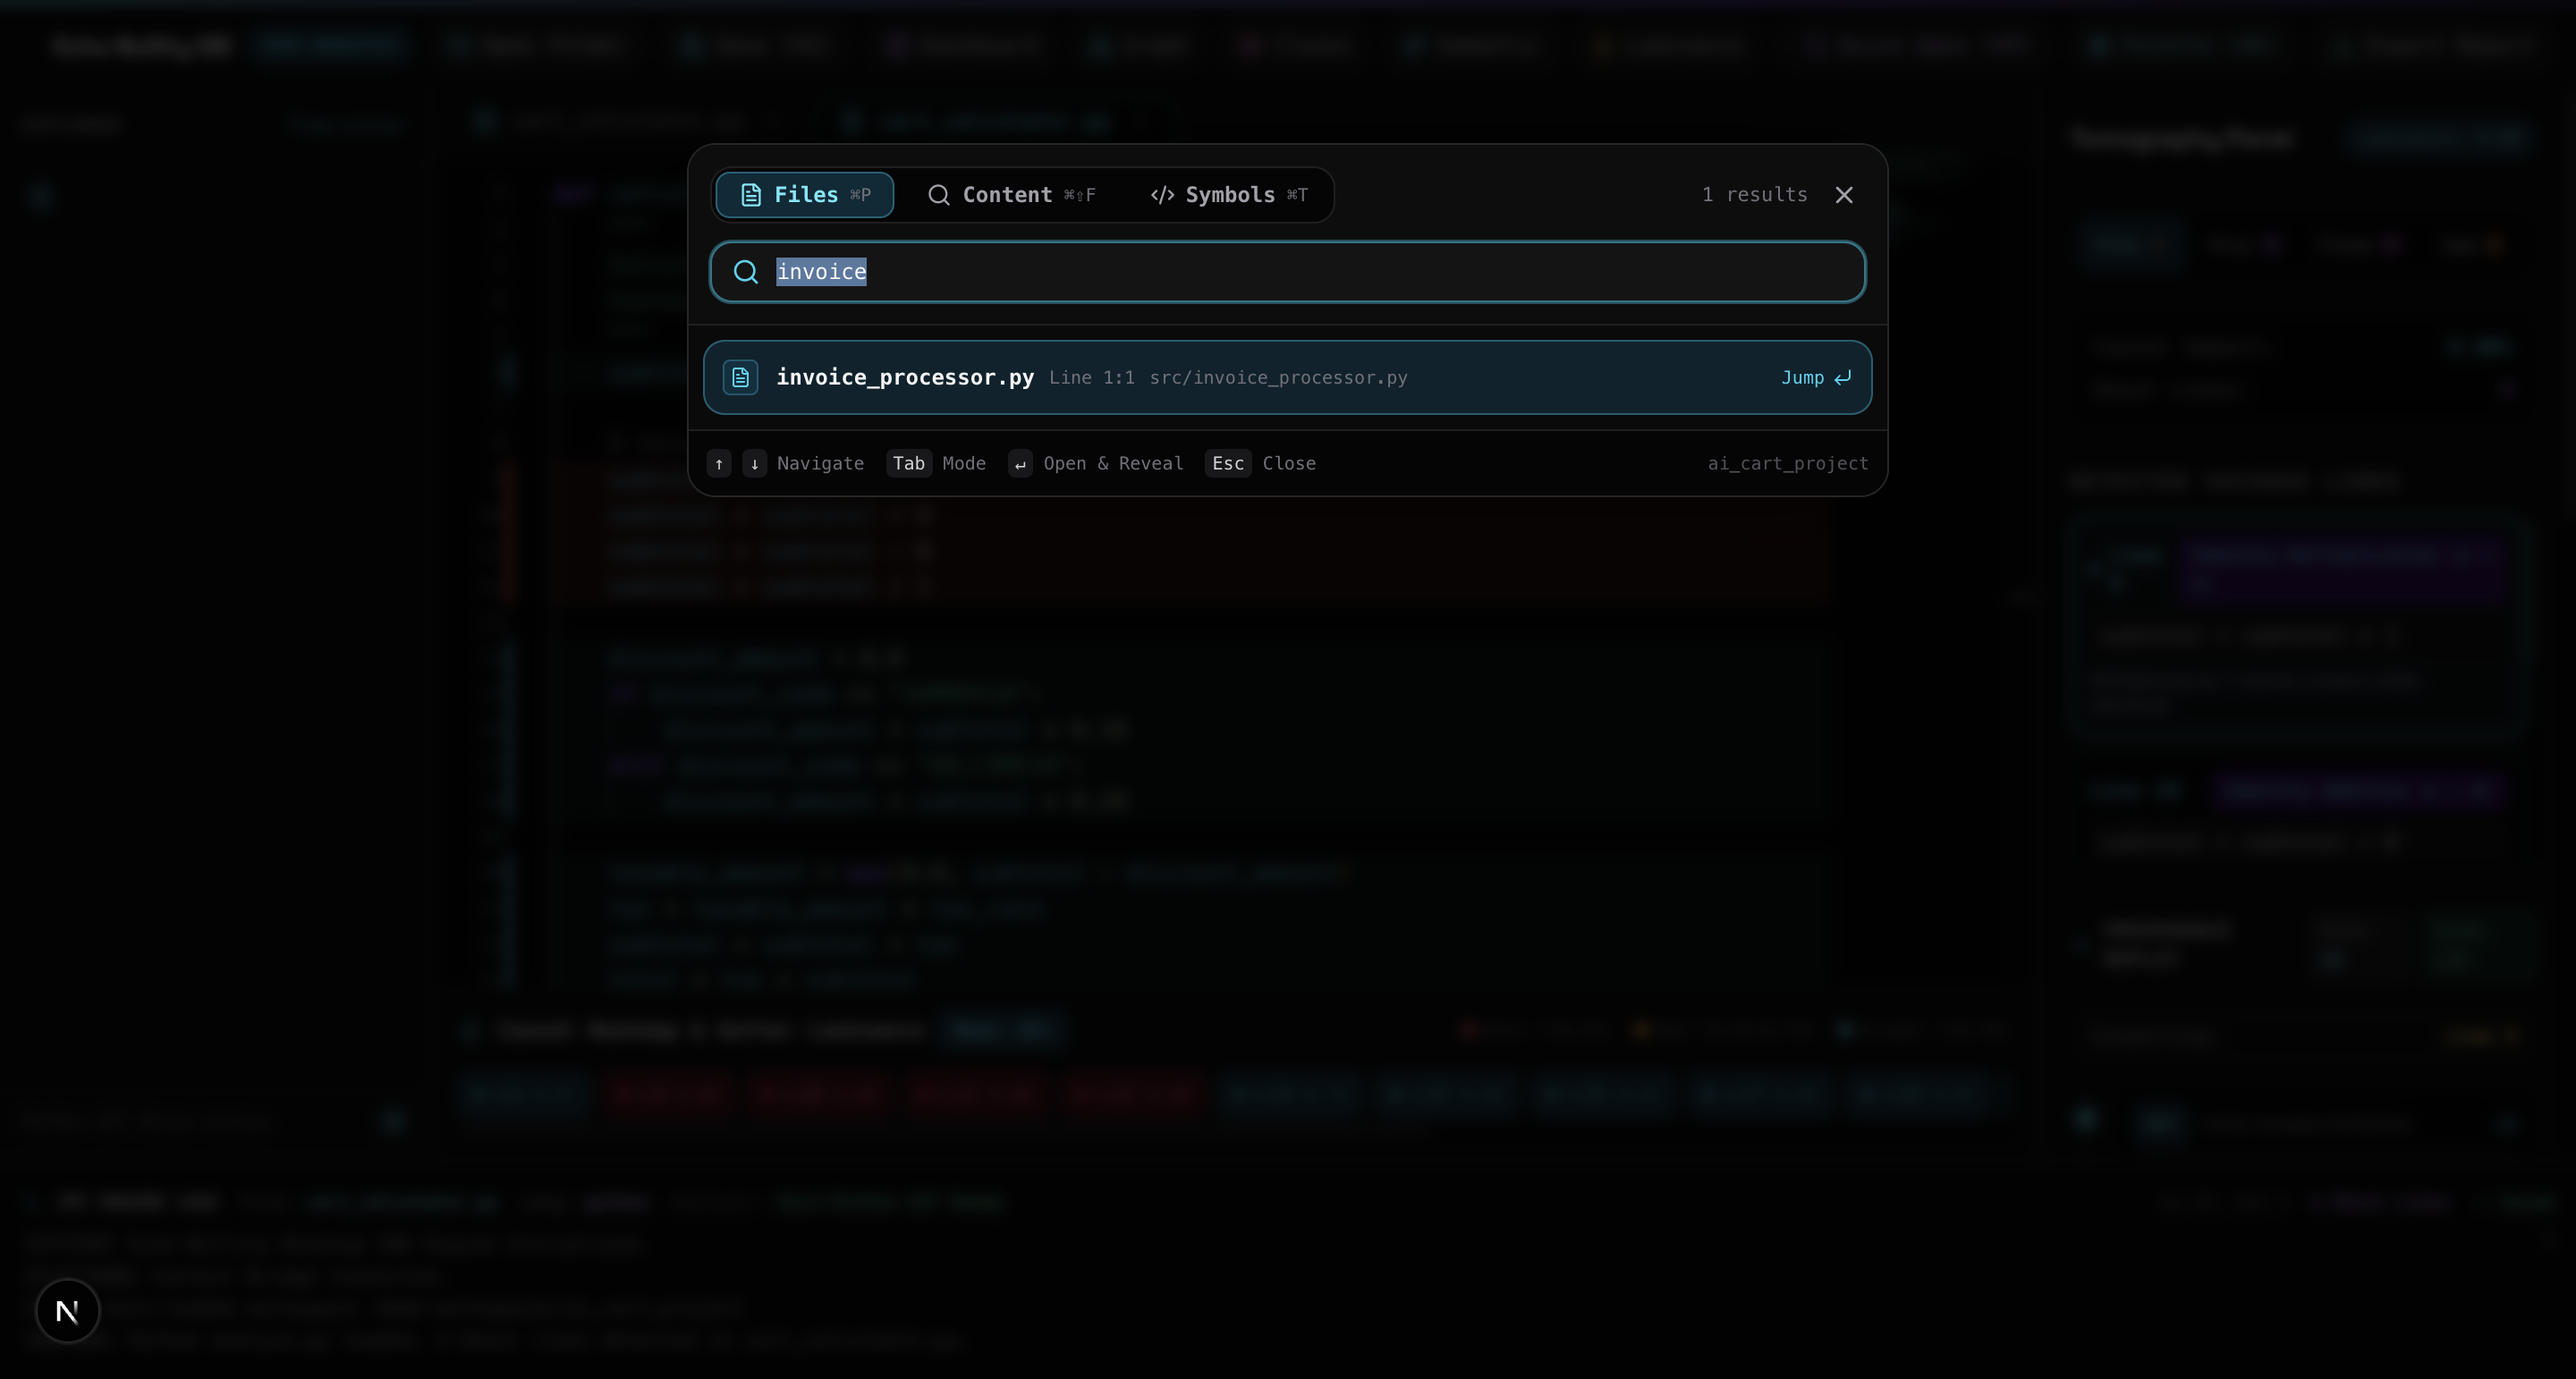
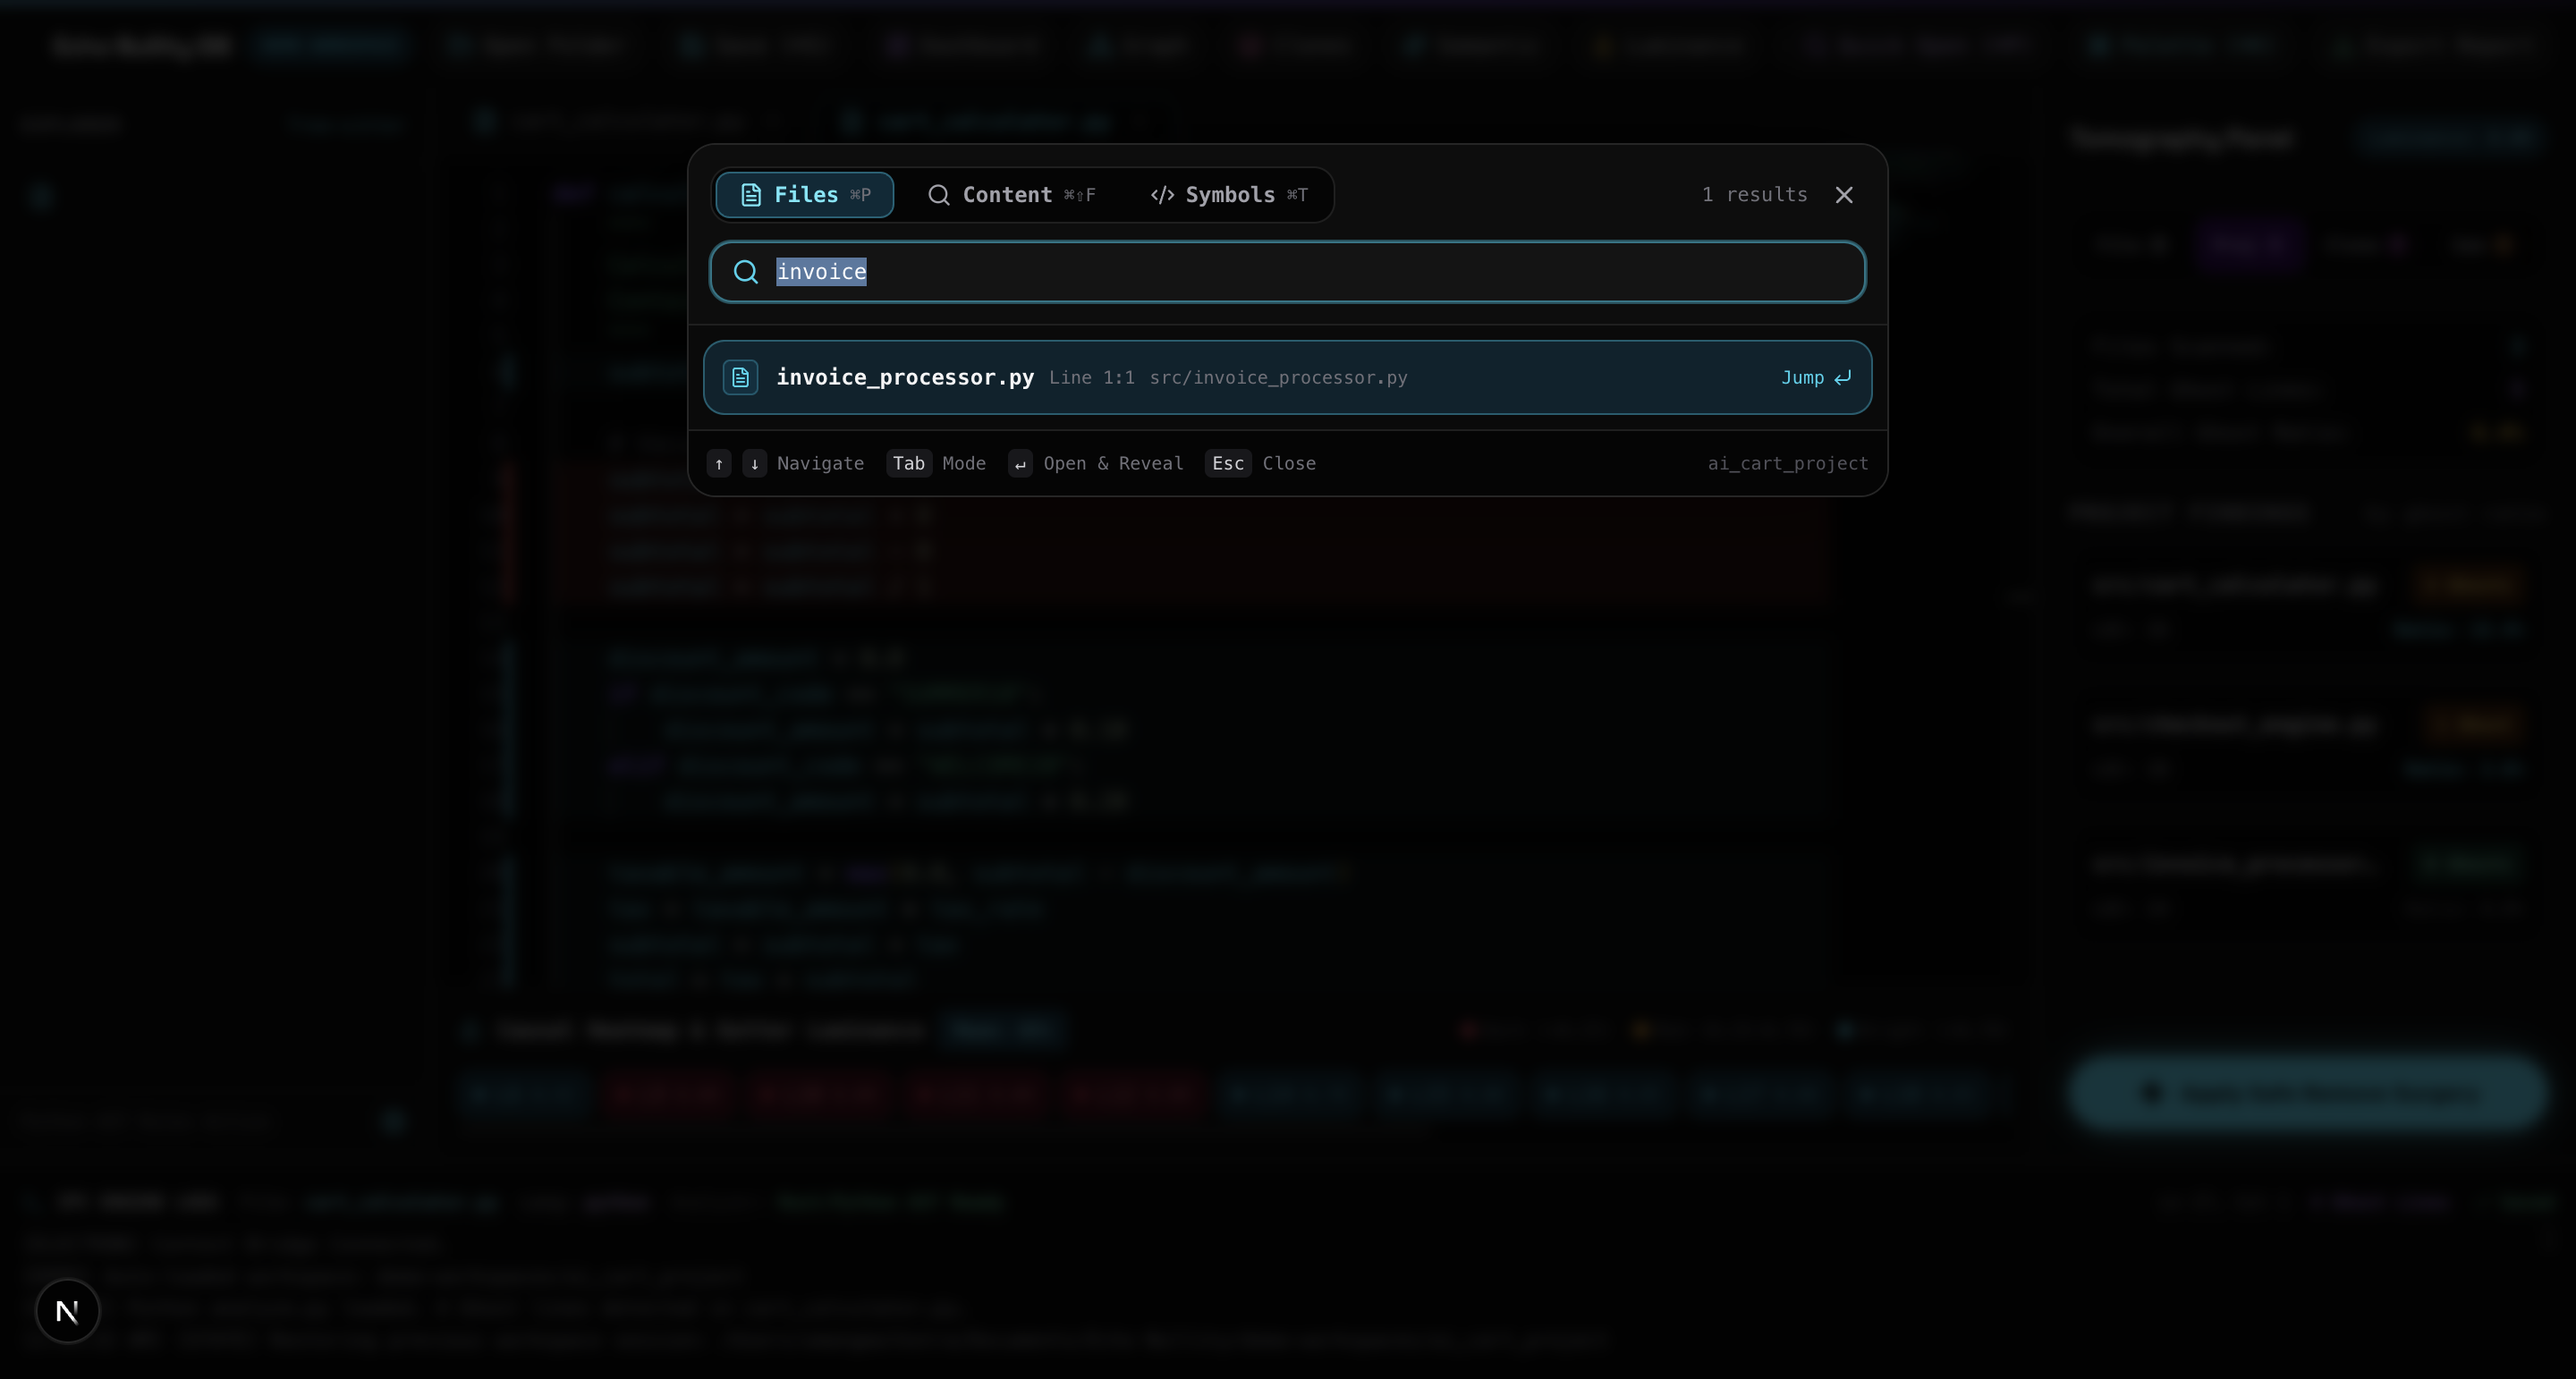
milestone 14 safe remove surgery preview complete

Changed region(s): [[0.7812, 0.7471, 1.0, 0.8405], [0.8438, 0.3735, 0.9375, 0.4358], [0.8438, 0.5603, 0.9375, 0.5914]]

diff --git a/desktop/renderer/IDEApp.tsx b/desktop/renderer/IDEApp.tsx
@@ -1952,9 +1952,50 @@ export default function IDEApp() {
     setVerifying(false);
   };
 
-  const handleOpenDiffPreview = async () => {
-    if (!activeTab || findings.length === 0) return;
-    addLog(`[SURGERY] Opening safe surgery diff preview for ${activeTab.name}...`);
+  const handleOpenDiffPreview = async (targetFinding?: any) => {
+    if (!activeTab) return;
+    const linesToPreview = targetFinding ? [targetFinding.line] : findings.map((f) => f.line);
+    if (linesToPreview.length === 0) return;
+
+    addLog(`[SURGERY] Preparing diff preview for ${activeTab.name} (${linesToPreview.length} target lines)...`);
+
+    if (typeof window !== "undefined" && window.electronAPI && window.electronAPI.previewSurgery) {
+      try {
+        const res = await window.electronAPI.previewSurgery({
+          file: activeTab.path,
+          approved_lines: linesToPreview,
+        });
+        if (res && res.success) {
+          setDiffData({
+            file: res.file,
+            original_source: res.original_source,
+            transformed_source: res.transformed_source,
+            changed_lines: res.approved_lines || linesToPreview,
+            ghost_count_before: findings.length,
+            ghost_count_after: Math.max(0, findings.length - linesToPreview.length),
+            causal_luminance_after: 1.0,
+          });
+        }
+      } catch (err) {
+        console.error("[SURGERY] Error fetching diff preview:", err);
+      }
+    } else {
+      const original = activeTab.content || "";
+      const lines = original.split("\n");
+      const approvedSet = new Set(linesToPreview);
+      const transformed = lines.filter((_, idx) => !approvedSet.has(idx + 1)).join("\n");
+      setDiffData({
+        file: activeTab.path,
+        original_source: original,
+        transformed_source: transformed,
+        changed_lines: linesToPreview,
+        ghost_count_before: findings.length,
+        ghost_count_after: Math.max(0, findings.length - linesToPreview.length),
+        causal_luminance_after: 1.0,
+      });
+    }
+
+    setDiffDrawerOpen(true);
     setShowSurgeryDiffModal(true);
   };
 
@@ -1969,6 +2010,9 @@ export default function IDEApp() {
     setApplyingSurgery(true);
     addLog(`[SURGERY] Applying surgery to ${activeTab.name} (${approvedLines.length} approved lines)...`);
 
+    let success = false;
+    let transformedContent = "";
+
     if (typeof window !== "undefined" && window.electronAPI && window.electronAPI.applySurgery) {
       try {
         const res = await window.electronAPI.applySurgery({
@@ -1977,22 +2021,11 @@ export default function IDEApp() {
         });
 
         if (res && res.success) {
-          const transformed = res.transformed_content;
-          setOpenTabs((prev) =>
-            prev.map((t) =>
-              t.path === activeTab.path
-                ? { ...t, content: transformed, savedContent: transformed, isDirty: false }
-                : t
-            )
-          );
-          setUndoAvailableForFile((prev) => ({ ...prev, [activeTab.path]: true }));
-          setShowSurgeryDiffModal(false);
+          success = true;
+          transformedContent = res.transformed_content;
           showToast(`Removed ${res.removed_count} ghost ${res.removed_count === 1 ? "line" : "lines"}`);
           addLog(`[SURGERY] Applied surgery to ${activeTab.name}: removed ${res.removed_count} ghost lines. Backup created at ${res.backup_path}`);
           console.log('[SURGERY] Applied surgery to', activeTab.name, 'removed', res.removed_count, 'lines');
-
-          // Rerun single-file AST analysis
-          runAnalysis(activeTab.path, transformed);
         } else {
           showToast(`Surgery failed: ${res?.error || "Unknown error"}`);
           addLog(`[ERROR] Surgery apply failed: ${res?.error || "Unknown error"}`);
@@ -2005,19 +2038,34 @@ export default function IDEApp() {
       // Fallback for mock/browser testing
       const lines = activeTab.content.split("\n");
       const approvedSet = new Set(approvedLines);
-      const transformed = lines.filter((_, idx) => !approvedSet.has(idx + 1)).join("\n");
+      transformedContent = lines.filter((_, idx) => !approvedSet.has(idx + 1)).join("\n");
+      success = true;
+      showToast(`Removed ${approvedLines.length} ghost ${approvedLines.length === 1 ? "line" : "lines"}`);
+    }
 
+    if (success) {
       setOpenTabs((prev) =>
         prev.map((t) =>
           t.path === activeTab.path
-            ? { ...t, content: transformed, savedContent: transformed, isDirty: false }
+            ? { ...t, content: transformedContent, savedContent: transformedContent, isDirty: false }
             : t
         )
       );
       setUndoAvailableForFile((prev) => ({ ...prev, [activeTab.path]: true }));
+      setDiffDrawerOpen(false);
       setShowSurgeryDiffModal(false);
-      showToast(`Removed ${approvedLines.length} ghost ${approvedLines.length === 1 ? "line" : "lines"}`);
-      runAnalysis(activeTab.path, transformed);
+
+      // 1. Rerun single-file AST analysis
+      runAnalysis(activeTab.path, transformedContent);
+
+      // 2. Refresh workspace dashboard, luminance, clones, semantics, and graph
+      if (folderPath) {
+        handleRunWorkspaceScan();
+        handleRunLuminanceScan();
+        handleScanStructuralClones();
+        handleScanSemanticClones();
+        handleLoadWorkspaceGraph();
+      }
     }
 
     setApplyingSurgery(false);
@@ -2027,25 +2075,18 @@ export default function IDEApp() {
     if (!activeTab) return;
     addLog(`[SURGERY] Restoring surgery backup for ${activeTab.name}...`);
 
+    let success = false;
+    let restoredContent = "";
+
     if (typeof window !== "undefined" && window.electronAPI && window.electronAPI.undoSurgery) {
       try {
         const res = await window.electronAPI.undoSurgery({ file: activeTab.path });
         if (res && res.success) {
-          const restored = res.restored_content;
-          setOpenTabs((prev) =>
-            prev.map((t) =>
-              t.path === activeTab.path
-                ? { ...t, content: restored, savedContent: restored, isDirty: false }
-                : t
-            )
-          );
-          setUndoAvailableForFile((prev) => ({ ...prev, [activeTab.path]: false }));
+          success = true;
+          restoredContent = res.restored_content;
           showToast(`Surgery undone · Backup restored`);
           addLog(`[SURGERY] Restored ${activeTab.name} from backup ${res.backup_path}`);
           console.log('[SURGERY] Restored', activeTab.name, 'from backup');
-
-          // Rerun AST analysis
-          runAnalysis(activeTab.path, restored);
         } else {
           showToast(`Undo failed: ${res?.error || "No backup found"}`);
           addLog(`[ERROR] Undo surgery failed: ${res?.error || "No backup found"}`);
@@ -2055,16 +2096,31 @@ export default function IDEApp() {
       }
     } else {
       // Fallback
+      restoredContent = defaultCartCalculatorCode;
+      success = true;
+    }
+
+    if (success) {
       setOpenTabs((prev) =>
         prev.map((t) =>
           t.path === activeTab.path
-            ? { ...t, content: defaultCartCalculatorCode, savedContent: defaultCartCalculatorCode, isDirty: false }
+            ? { ...t, content: restoredContent, savedContent: restoredContent, isDirty: false }
             : t
         )
       );
       setUndoAvailableForFile((prev) => ({ ...prev, [activeTab.path]: false }));
-      showToast(`Surgery undone · Backup restored`);
-      runAnalysis(activeTab.path, defaultCartCalculatorCode);
+
+      // 1. Rerun AST analysis
+      runAnalysis(activeTab.path, restoredContent);
+
+      // 2. Refresh workspace metrics & scans
+      if (folderPath) {
+        handleRunWorkspaceScan();
+        handleRunLuminanceScan();
+        handleScanStructuralClones();
+        handleScanSemanticClones();
+        handleLoadWorkspaceGraph();
+      }
     }
   };
 
@@ -3037,9 +3093,21 @@ export default function IDEApp() {
                             <div className="text-zinc-300 font-mono bg-[#111111] p-1.5 rounded truncate">
                               {f.code}
                             </div>
-                            <p className="text-[11px] text-zinc-400 font-sans leading-tight">
-                              {f.reason}
-                            </p>
+                            <div className="flex items-center justify-between pt-1">
+                              <p className="text-[11px] text-zinc-400 font-sans leading-tight flex-1">
+                                {f.reason}
+                              </p>
+                              <button
+                                onClick={(e) => {
+                                  e.stopPropagation();
+                                  handleFindingClick(f);
+                                  handleOpenDiffPreview(f);
+                                }}
+                                className="ml-2 px-2 py-0.5 rounded bg-cyan-950 hover:bg-cyan-900 border border-cyan-500/40 text-cyan-300 text-[10px] font-bold whitespace-nowrap transition-all"
+                              >
+                                Preview Surgery
+                              </button>
+                            </div>
                           </button>
                         );
                       })
